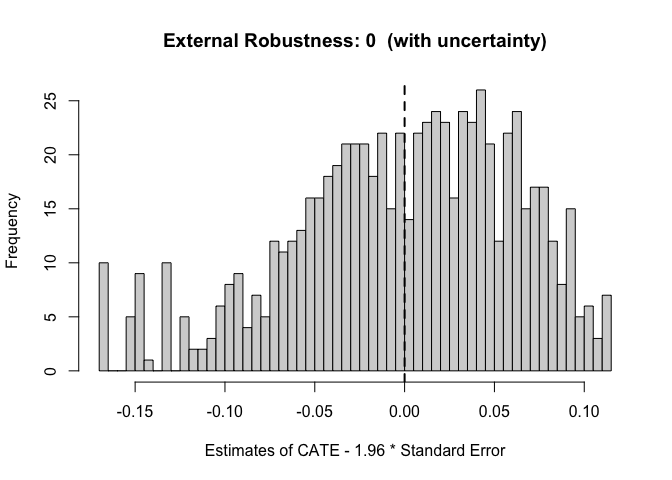
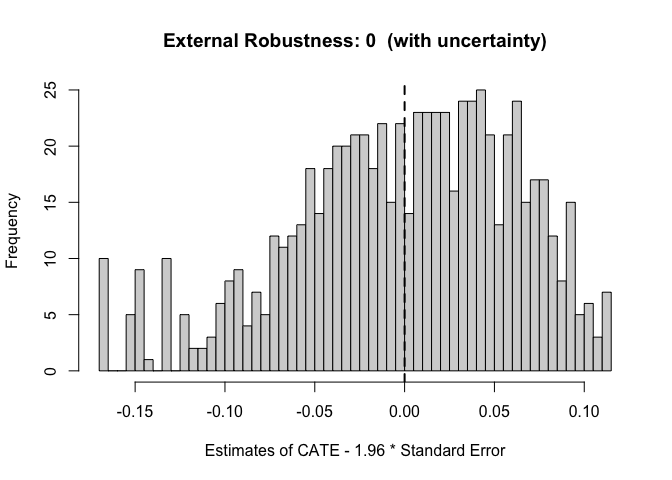
update

diff --git a/README.md b/README.md
@@ -103,13 +103,13 @@ data(LaLonde) # to simplify this example, we use the subset of the data (n = 300
 covariates <- c("age", "educ", "black","hisp", "marr", "nodegr", "log.re75","u75") 
 for_sate <- as.formula(paste0("outcome ~ treat + ", paste(covariates, collapse = "+")))
 
-lm_sate <- estimatr::lm_robust(for_sate, data = LaLonde)
+lm_sate <- lm(for_sate, data = LaLonde)
 sate_est <- summary(lm_sate)$coef["treat", c(1,2)]
 sate_est
 ```
 
     ##   Estimate Std. Error 
-    ## 0.06965018 0.03559064
+    ## 0.06965018 0.03563844
 
 ### Estimate External Robustness
 
@@ -173,8 +173,8 @@ summary(exr_out)
     ## External Robustness: 0.41
     ## -------------------------
     ## 
-    ##  Method    Estimate   With CI 
-    ##     grf   0.4103921 *       0 
+    ##  Method    Estimate        With CI 
+    ##     grf   0.4103921 * 1.110223e-16 
     ## ---
     ## Note: 0 ' ' 0.14 (Probability Surveys) '*' 0.57 (MTurk Samples) '**' 1
 
